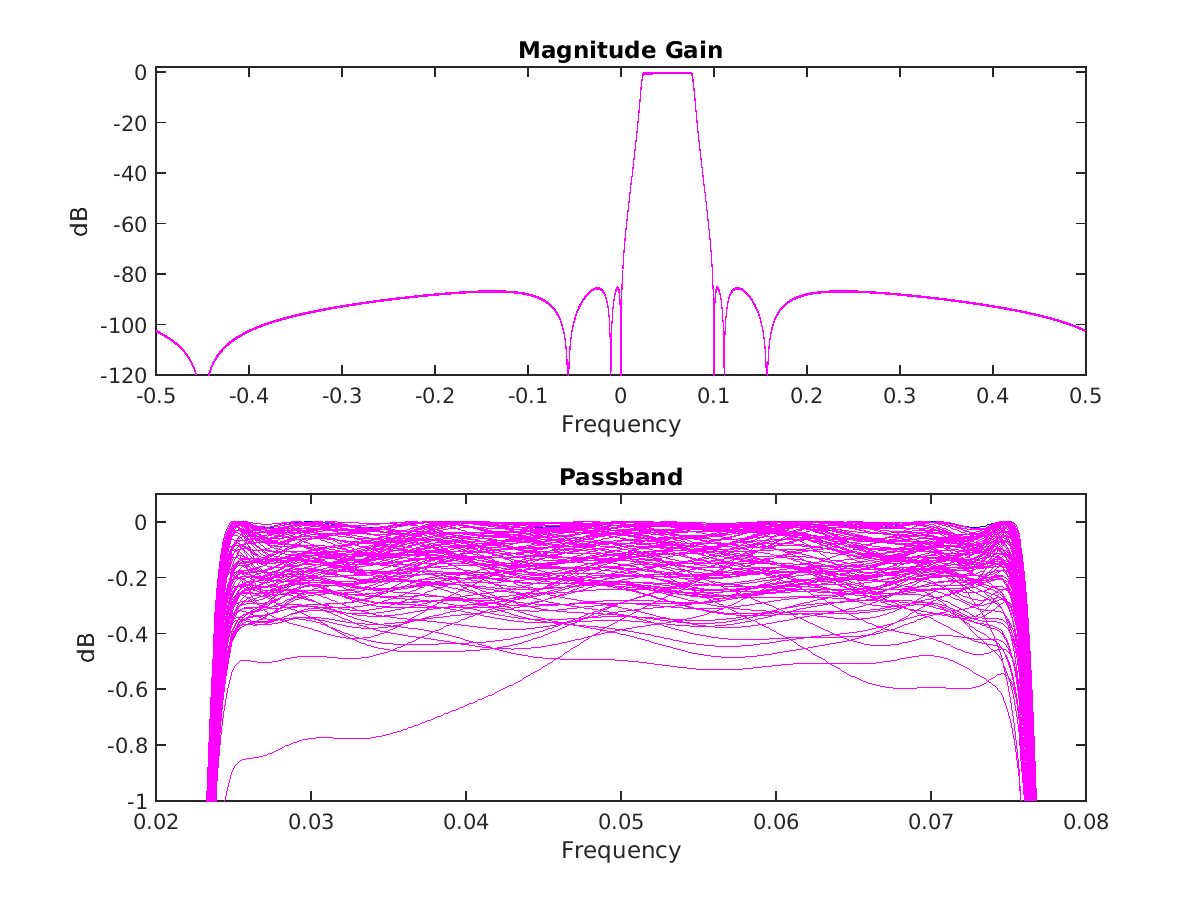
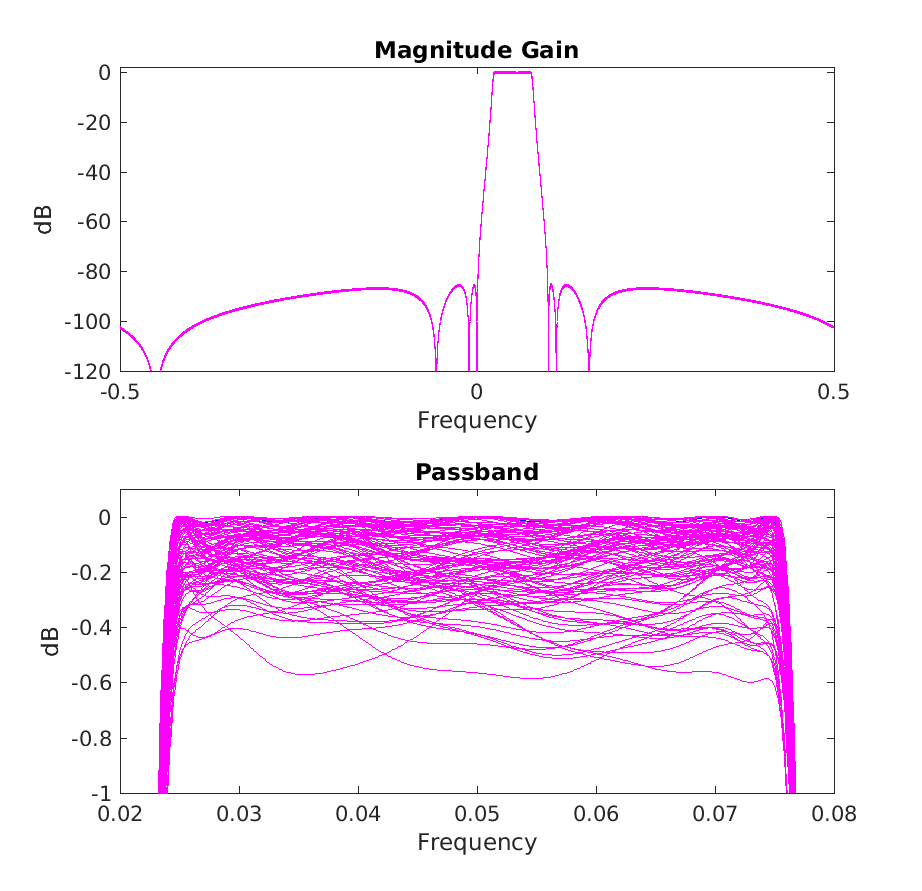
Modified and added examples, such as for Filter Banks, and a small overview file (EXAMPLES.txt)

diff --git a/examples/csc_fltr_1_8_0.m b/examples/csc_fltr_1_8_0.m
@@ -1,10 +1,11 @@
-% The first two filters are analog (continuous-time) filters.
-
-% A symetric filter that should be real
+% 6 movable poles, 1 pole at infinity, 1 fixed pole,
+% wp = -0.025 to 0.075, 0.05dB elliptic passband
+% 100 Monte-Carlo runs; takes a bit of time to run and plot
+% lower stop-band loss is around 160dB
 
 %w_shift = pi*j;
 w_shift = 0.0j;
-p = [-0.25 -0.1 -0.08 -0.06 0.08 0.25]; % initial guess at finite loss poles
+p = [-0.35 -0.25 -0.1 -0.08 -0.06 0.08 0.25 0.35]; % initial guess at finite loss poles
 ni=1; % number of loss poles at infinity
 wp = []; ws = [];
 wp(1) = -0.025; % lower passband edge
@@ -20,11 +21,11 @@ svSpecs = {p, px, wp, ws};
 
 [p_, px_, wp_, ws_] = shiftSpecs(p, px, wp, ws, 0.05);
 H4 = dsgnDigitalFltr(p_, px_, ni, wp_, ws_, as, Ap, 'elliptic');
-[ax1, ax2] = plot_drsps(H4, wp_, ws_, 'b', [-0.5 0.5 -160 1]);
+[ax1, ax2] = plot_drsps(H4, wp_, ws_, 'b', [-0.5 0.5 -200 1]);
 cscdFltr1 = mkCscdFltrD(H4, wp_);
 cscdFltr1.plotGn(wp_, ws_, -160, 2);
 tic
-runMcCscd(cscdFltr1, wp_, 2e-5, 0, 100, [-150, 2]);
+runMcCscd(cscdFltr1, wp_, 2e-6, 0, 100, [-200, 2]);
 toc
 drawnow;
 cscdHndl = gcf;

diff --git a/lib/runMcCscd.m b/lib/runMcCscd.m
@@ -1,4 +1,4 @@
-function runMcCscd(cscdFltr, wp, std, fShft, nmbRuns, ylim)
+function xout1 = runMcCscd(cscdFltr, wp, std, fShft, nmbRuns, ylim)
 % runMcCscd(cscdFltr, wp, std, fShft, nmbRuns, ylim)
 % run nmbRuns and plot FFTs of impulse responses of cascade filter
 % having randomly perturbed matrices. cscdFltr is object of cascadeClass,
@@ -39,12 +39,12 @@ function runMcCscd(cscdFltr, wp, std, fShft, nmbRuns, ylim)
   xin = zeros(8192,1);
   xin(1) = 1;
   freq_shtf = fShft;
-  xout = simBiquad(A_, B_, C_, D_ , xin, freq_shtf);
+  xout1 = simBiquad(A_, B_, C_, D_ , xin, freq_shtf);
 
   hndl(6) = figure('Position',[800 100 600 600]);
-  [ax1 ax2, f, ymRef] = plotRspns(xout, wp + freq_shtf, 'b', ylim);
+  [ax1 ax2, f, ymRef] = plotRspns(xout1, wp + freq_shtf, 'b', ylim);
   errs = zeros(size(ymRef));
-  %[f, ndB, dB, ym, ya] = nfft2(xout,'b', -120, 2);
+  %[f, ndB, dB, ym, ya] = nfft2(xout1,'b', -120, 2);
 
   hold(ax1, 'on');
   hold(ax2, 'on');

diff --git a/examples/DLddrFltr_1_8_0.m b/examples/DLddrFltr_1_8_0.m
@@ -82,7 +82,7 @@ xout = simLddr(lddr2, xin,  0);
 [ax1 ax2, f, ym] = plotRspns(xout, wp_, 'b', [-140, 2]);
 
 tic
-out = simLddrMC(lddr2, xin, wp_, 0, 5e-5, 100, [-150, 2]);
+outLddr = simLddrMC(lddr2, xin, wp_, 0, 5e-5, 2, [-150, 2]);
 toc
 
 drawnow;
@@ -95,7 +95,7 @@ H4 = dsgnDigitalFltr(p_, px_, ni, wp_, ws_, as, Ap, 'elliptic');
 cscdFltr1 = mkCscdFltrD(H4, wp_);
 %cscdFltr1.plotGn(wp_, ws_, -160, 2);
 tic
-runMcCscd(cscdFltr1, wp_, 5e-5, 0, 100, [-150, 2]);
+outCscd = runMcCscd(cscdFltr1, wp_, 5e-5, 0, 2, [-150, 2]);
 toc
 
 drawnow;

diff --git a/examples/csc_fltr_1_2_1.m b/examples/csc_fltr_1_2_1.m
@@ -1,4 +1,6 @@
-% csc_fltr_1_2_1: a cascade file with 1 pole at infinity, 2 moveable poles, and 1 fixed pole
+% 2 movable poles, 1 pole at infinity, 1 fixed poles,
+% wp = -0.0125 to 0.01375, 0.1dB elliptic passband
+% includes Monte-Carlo run of 100 samples
 
 p = [-0.25  0.25]; % initial values of moveable transmission zeros
 px = [-0.025]; % fixed transmission zero

diff --git a/examples/csc_fltr_1_2_1b.m b/examples/csc_fltr_1_2_1b.m
@@ -1,3 +1,6 @@
+% 2 movable poles, 1 pole at infinity, 0 fixed poles,
+% wp = -0.0125 to 0.01375, 0.1dB elliptic passband
+
 p = [-0.25  0.25]; % initial guess at moveable finite loss poles
 px = [-0.025]; % fixed poles, this poles will be at dc after frequency shift of specs and poles
 ni=1; % number of loss poles at infinity

diff --git a/examples/csc_fltr_1_2_0.m b/examples/csc_fltr_1_2_0.m
@@ -1,4 +1,4 @@
-p = [-0.25  0.25]; % initial guess at moveable finite loss poles
+p = [-0.25 0.25]; % initial guess at moveable finite loss poles
 px = []; % fixed poles, this poles will be at dc after frequency shift of specs and poles
 ni=1; % number of loss poles at infinity
 wp(1) = -0.0125; % lower passband edge

diff --git a/examples/dfltr_1_6_1.m b/examples/dfltr_1_6_1.m
@@ -1,4 +1,4 @@
-% 5 moveable loss poles in lower stop-band and one fixed loss-pole at dc
+% 6 moveable loss poles in lower stop-band and one fixed loss-pole at dc
 % passband extends through most of positive frequencies, a good example of
 % a positive-pass filter (Hilbert transform)
 

diff --git a/examples/dfltr_1_2.m b/examples/dfltr_1_2.m
@@ -1,3 +1,6 @@
+% One of the early examples used in developing normalized design
+% Includes the first SFG ladder simulation
+
 p = [-0.25 0.25]; % initial guess at moveable finite loss poles
 px = []; % fixed pole
 ni=1; % number of loss poles at infinity

diff --git a/lib/simBiquad.m b/lib/simBiquad.m
@@ -36,7 +36,7 @@ function xout = simBiquad(A_, B_, C_, D_, xin, delta_f)
 
     for i = 1:npts
       xout(i) = c*X + d*xin(i);
-      X1 = a*X + b*xin(i);
+      X1 = a*X + b.*xin(i);
       X = X1*eshft;
     end
     xin = xout;
